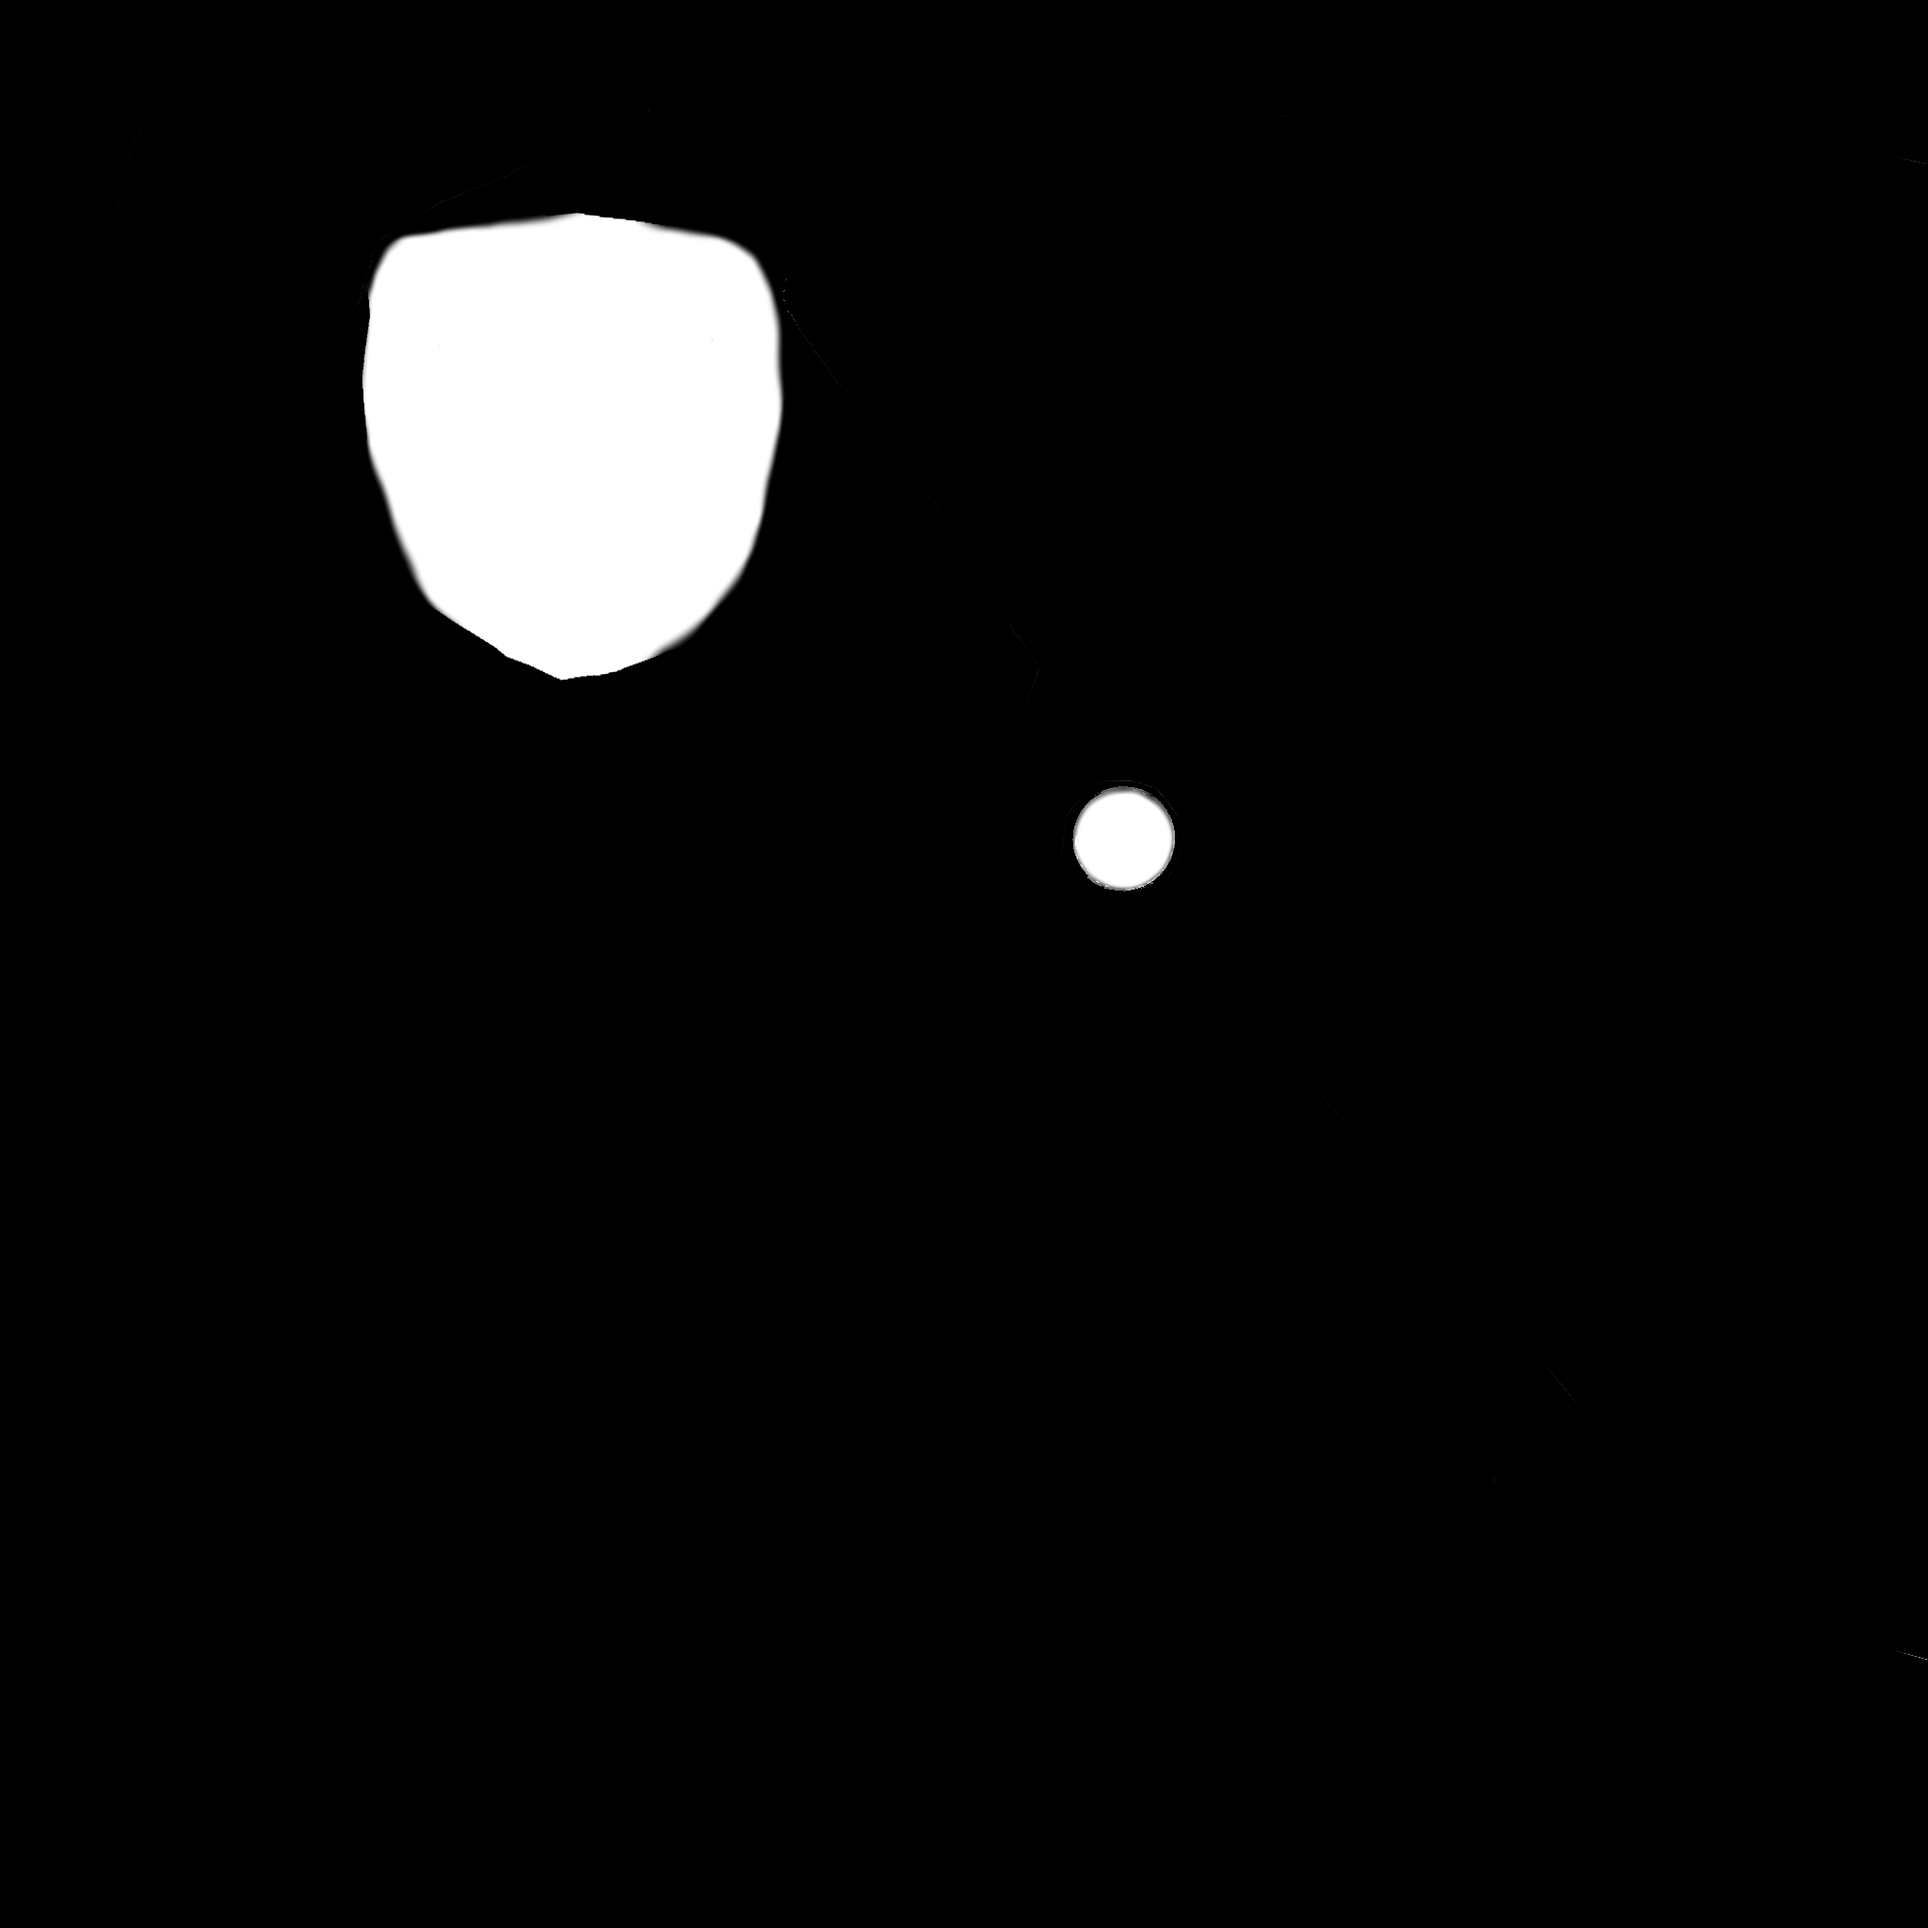
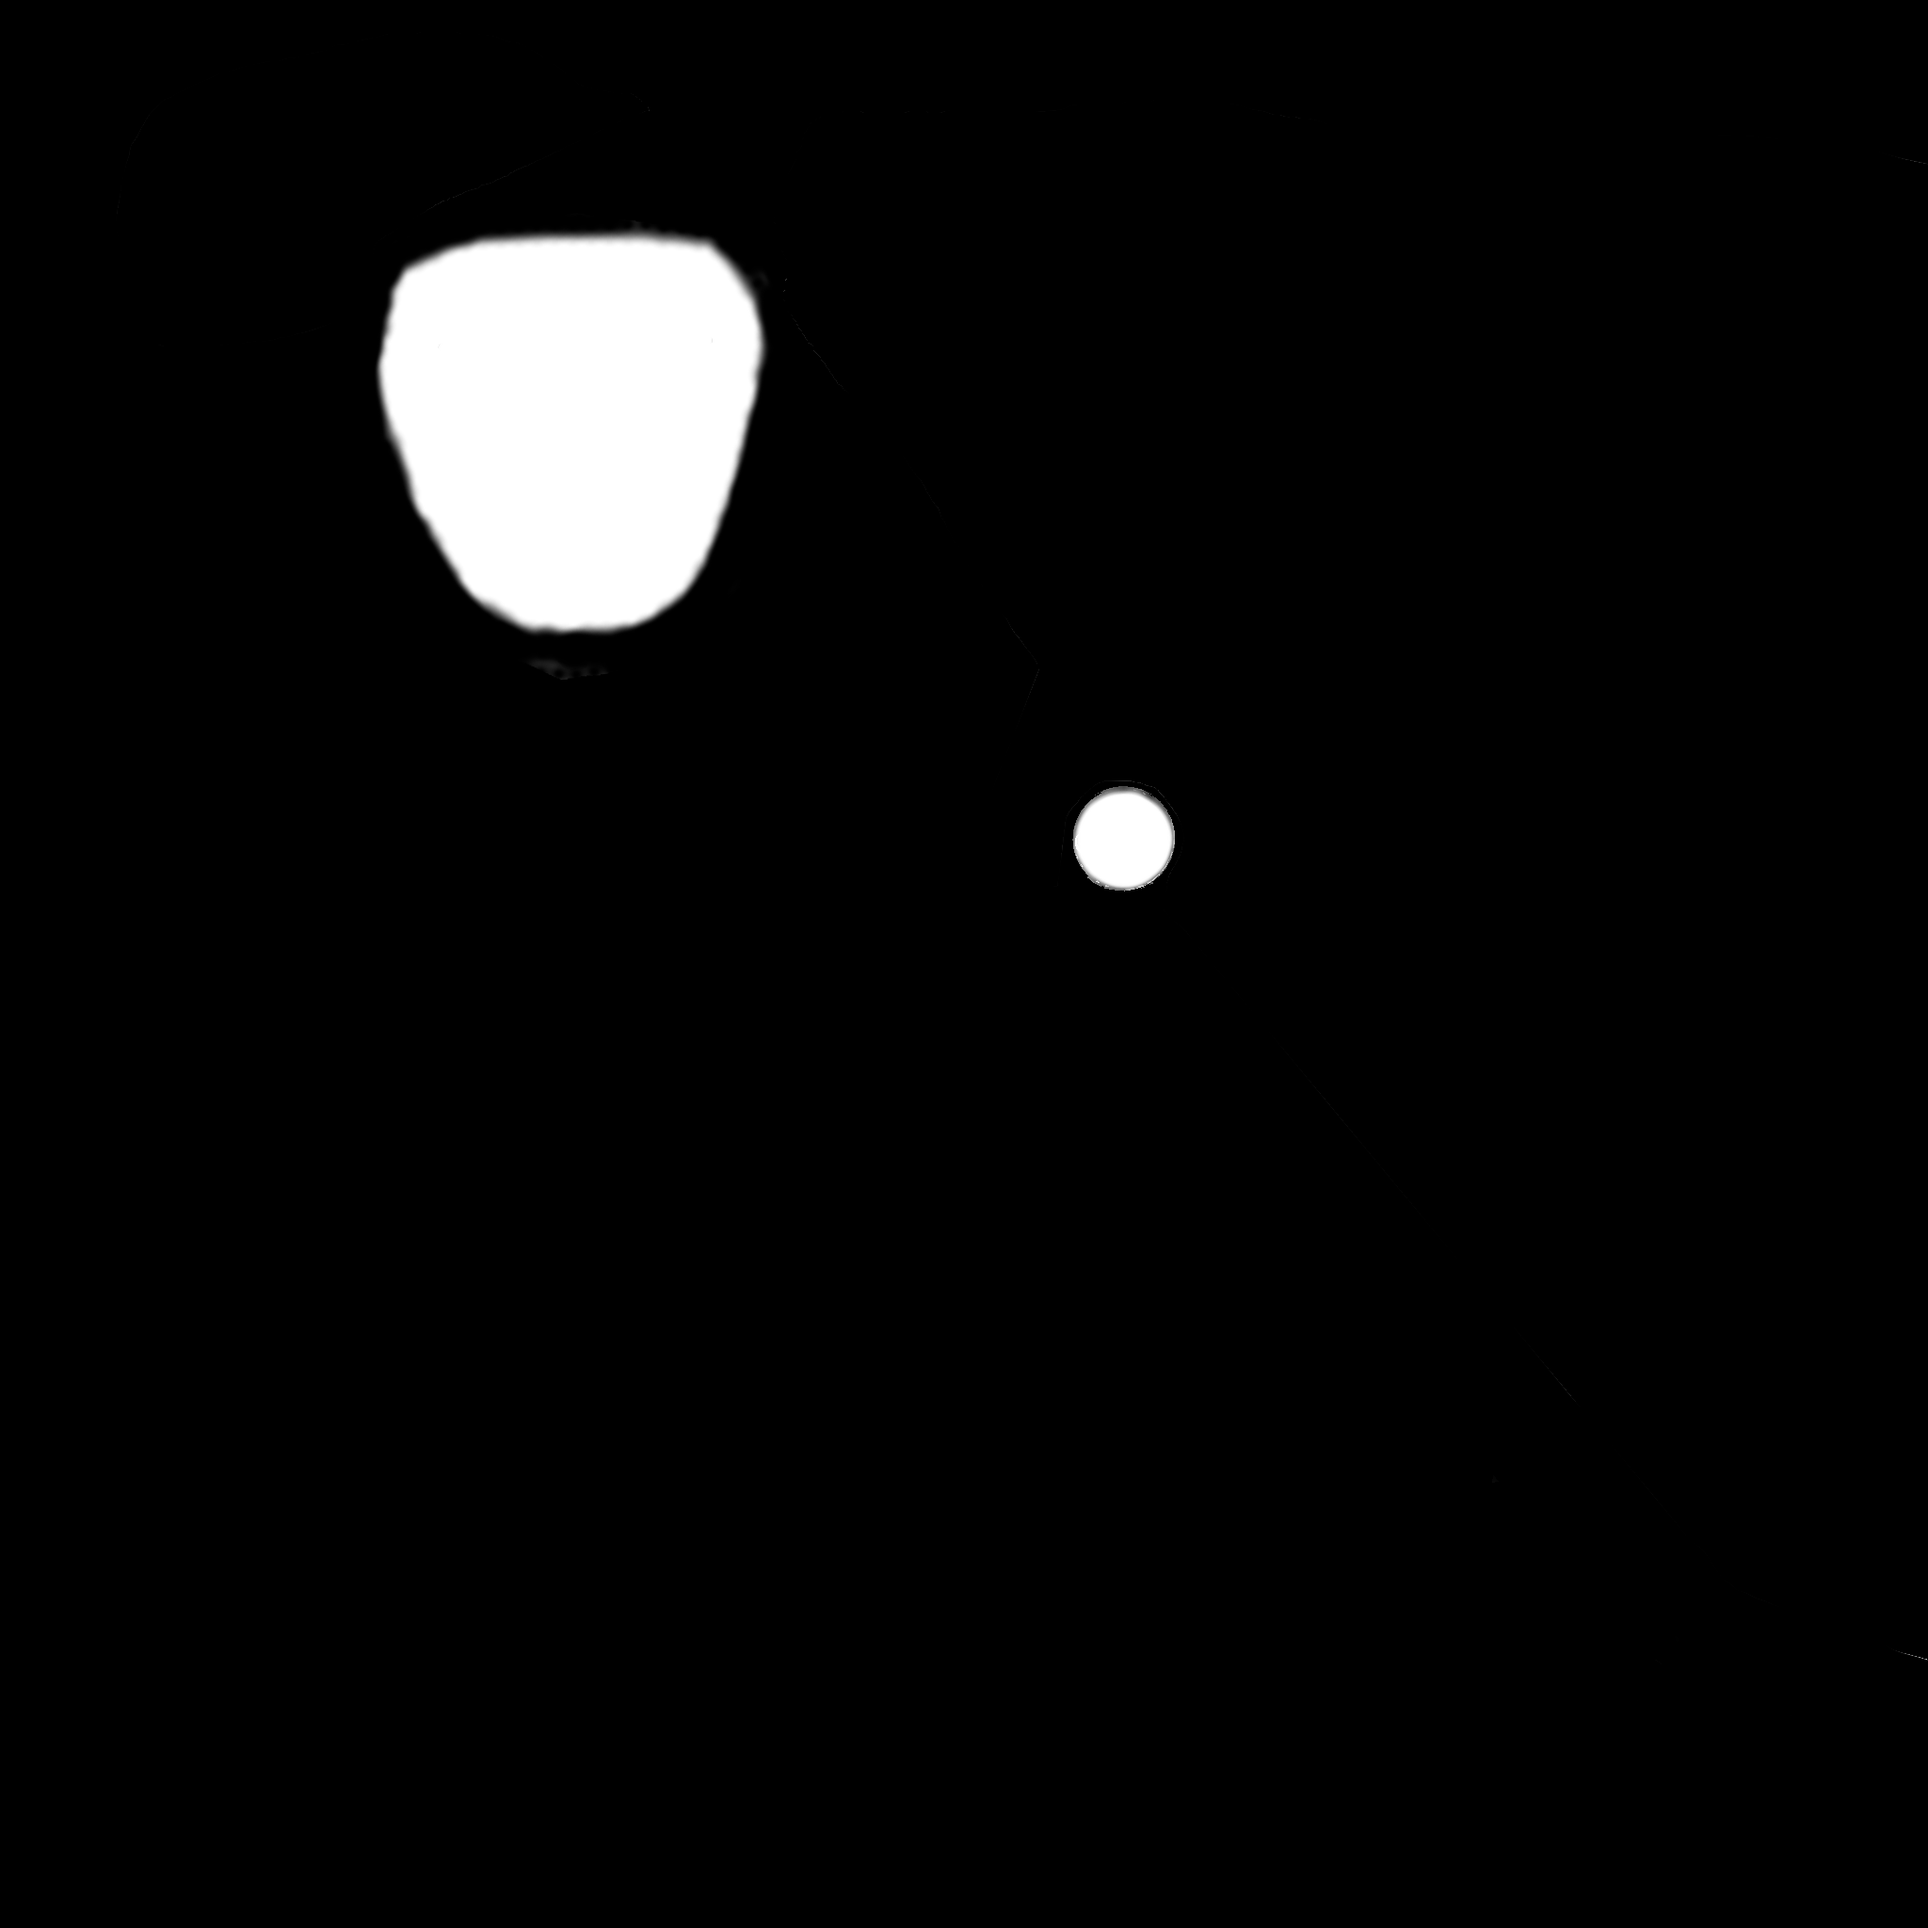
update_fix_possion_face_left_right

Changed region(s): [[0.1875, 0.0938, 0.4062, 0.375]]

diff --git a/full_body_reconstruction.py b/full_body_reconstruction.py
@@ -87,18 +87,37 @@ def head_recon(gender, image_f, image_r, image_l):
     landmarks_l= torch.tensor(landmarks_l)
     croped_img_l, croped_lmks_l = crop_image(image_l, landmarks_l)
 
+    vec_r = croped_lmks_r[93] - croped_lmks_r[1]
+    vec_l = croped_lmks_r[323] - croped_lmks_r[1]
+
+    if abs(vec_r[0]) < abs(vec_l[0]):
+        swap_lmk = croped_lmks_l.clone()
+        swap_img = croped_img_l.copy()
+        croped_lmks_l = croped_lmks_r
+        croped_img_l = croped_img_r
+        croped_lmks_r = swap_lmk
+        croped_img_r = swap_img
+
     # cv2.namedWindow("aa", cv2.WINDOW_NORMAL)
     # cv2.resizeWindow("aa", 1024, 1024)
-    # for p1 in croped_lmks_f[config.idx_embedding_mp]:
-    #     cv2.circle(croped_img_f, (int(p1[0]), int(p1[1])), 2, (0, 0, 255), -1)
-    #     cv2.imshow("aa", croped_img_f)
-    #     cv2.waitKey(0)
-    # for p1 in croped_lmks_f[config.leftEyeIris]:
-    #     cv2.circle(croped_img_f, (int(p1[0]), int(p1[1])), 2, (0, 255, 0), -1)
-    #     cv2.imshow("aa", croped_img_f)
-    #     cv2.waitKey(0)
-    
+    # img_f = croped_img_f.copy()
+    # img_r = croped_img_r.copy()
+    # img_l = croped_img_l.copy()
+    # for p1 in croped_lmks_f:
+    #     cv2.circle(img_f, (int(p1[0]), int(p1[1])), 2, (0, 0, 255), -1)
+        
+    # for p1 in croped_lmks_r:
+    #     cv2.circle(img_r, (int(p1[0]), int(p1[1])), 2, (0, 255, 0), -1)
+        
+    # for p1 in croped_lmks_l:
+    #     cv2.circle(img_l, (int(p1[0]), int(p1[1])), 2, (0, 255, 0), -1)
+        
+    # cv2.imshow("cc", img_l)
+    # cv2.imshow("bb", img_r)
+    # cv2.imshow("aa", img_f)
+    # cv2.waitKey(0)
     # cv2.destroyAllWindows()
+
     head_optim = HEAD_OPTIM(gender=gender, vis=False)
 
     verts_show, verts_f, cam_f, verts_r, cam_r, verts_l, cam_l = head_optim(image_f=croped_img_f, landmarks_f=croped_lmks_f, 
@@ -183,6 +202,7 @@ def run_head(gender, image_f, image_r, image_l):
     transfered_img = run_transfer(src_img_cv=src_img_cv, tar_img_cv=tar_img_cv)
 
     transfered_texture = config.full_face_mask*final_texture + (1-config.full_face_mask)*transfered_img
+
     inpainted_texture = run_inpaint(orig_img=transfered_texture.astype(np.uint8))
 
     # process inner_wear
